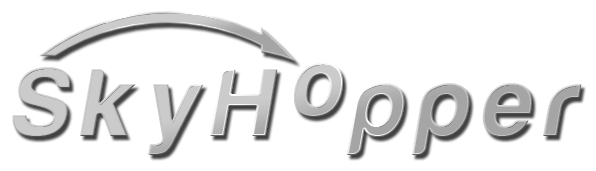
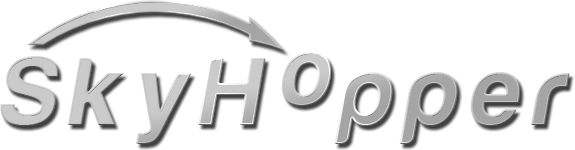
Generalising Add Hop

Changed region(s): [[0.0, 0.0, 1.0, 1.0]]

diff --git a/css/skyhopper.css b/css/skyhopper.css
@@ -28,7 +28,7 @@
 	width: 180px;
 }
 
-.addhop {
+.hop_container_add {
 	margin-left: auto;
 	margin-right: auto;
 	width: 180px;
@@ -42,7 +42,7 @@
 	margin-left: auto;
 	margin-right: auto;
 	width: 940px;
-	padding: 10px 10px;
+	padding: 15px 10px 25px 10px;
 	background-color: #eeeeee;
 	  -webkit-border-radius: 6px;
 	     -moz-border-radius: 6px;
@@ -54,8 +54,12 @@
 	margin-bottom: 10px;
 }
 
-.hopone {
+.hop_container_insert {
 	display: none;
+}
+
+.hop_container_delete {
+	margin-left: 5px;
 }
 
 .hop_container_title {
@@ -65,4 +69,13 @@
 	line-height: 20px;
 	color: inherit;
 	text-rendering: optimizelegibility;
+}
+
+.logo {
+	height: 30px;
+}
+
+.brand {
+	padding-top: 5px !important;
+	padding-bottom: 5px !important;
 }

diff --git a/application/views/assets/main.php b/application/views/assets/main.php
@@ -21,20 +21,12 @@
 		</div>
     </div>
     
-    <div class="hopone hop">
+    <div class="hop_container_insert hop">
     	<div class="transitionbulletone">•</div>
     	<div class="transitionbullettwo">•</div>
 	    <div class="hop_container">
-			<div class="airports_title row-fluid">
-				<div class="span5">
-	    			<h1>First Destination</h1>
-				</div>
-				<div class="pull-right">
-					<i class="icon-remove hoponedelete"></i>
-				</div>
-			</div>
 			<div class="airports_body">
-				<span class="help-inline">Inline help text</span>
+				<span class="help-inline hop_container_title">Hop</span>
 				<div class="pull-right">
 					<form class="form-inline">
 						<div class="input-prepend">
@@ -48,17 +40,18 @@
 							<span class="add-on"><i class="icon-calendar"></i></span>
 							<input type="text" class="span2" placeholder="Departure Date" data-date-format="dd/mm/yy" id="dp1">
 						</div>
+						<i class="icon-remove hop_container_delete"></i>
 				    </form>
 				</div>
 			</div>
 	    </div>
 	    
     </div>
-    <div class="transitionbulletone">•</div>
-    <div class="transitionbullettwo">•</div>
+    <div class="transitionbulletone hop">•</div>
+    <div class="transitionbullettwo hop">•</div>
     
     <div class="addHopContainer">
-    	<button class="btn addhop"><i class="icon-plus"></i> Add a hop</button>
+    	<button class="btn hop_container_add"><i class="icon-plus"></i> Add a hop</button>
     </div>
     
     <div class="transitionbullettwo">•</div>

diff --git a/application/views/assets/footer.php b/application/views/assets/footer.php
@@ -3,21 +3,21 @@
 		</footer>
 	
 		<!-- <script src="<?php echo base_url("/js/jquery.js");?>"></script>-->
-		<script src="http://code.jquery.com/jquery-1.9.1.min.js"></script>
-		<script src="<?= base_url("/js/bootstrap-datepicker.js");?>"></script>
-		<script src="<?= base_url('/js/bootstrap.js'); ?>"></script>
+		<script type="text/javascript" src="http://code.jquery.com/jquery-1.9.1.min.js"></script>
+		<script type="text/javascript" src="<?= base_url("/js/bootstrap-datepicker.js");?>"></script>
+		<script type="text/javascript" src="<?= base_url('/js/bootstrap.js'); ?>"></script>
 		<script type="text/javascript" src="<?= base_url('/js/airport_search.js'); ?>"></script>
 		<script type="text/javascript">
 			$(document).ready(function() {
 				$('#dp1').datepicker();
 				$('#dp2').datepicker();
-				$(".addhop").click(function () {
+				$(".hop_container_add").click(function () {
 					$(".hop").first().show("slow", function showNext() {
 						$(this).next(".hop").show("slow", showNext);
 					});
 				});
-				$(".hoponedelete").click(function(){ 
-					$(".hopone").hide(500);
+				$(".hop_container_delete").click(function(){ 
+					$(".hop_container_insert").hide(500);
 					event.preventDefault()
 				});
 

diff --git a/application/views/assets/header.php b/application/views/assets/header.php
@@ -33,7 +33,7 @@
             <span class="icon-bar"></span>
             <span class="icon-bar"></span>
           </a>
-          <a class="brand" href="#">SkyHopper</a>
+          <a class="brand" href="#"><img class="logo" src="<?= base_url('/img/SkyHopper_transparent.png'); ?>"></a>
           <div class="nav-collapse collapse">
             <p class="navbar-text pull-right">
               Logged in as <a href="#" class="navbar-link">Username</a>
